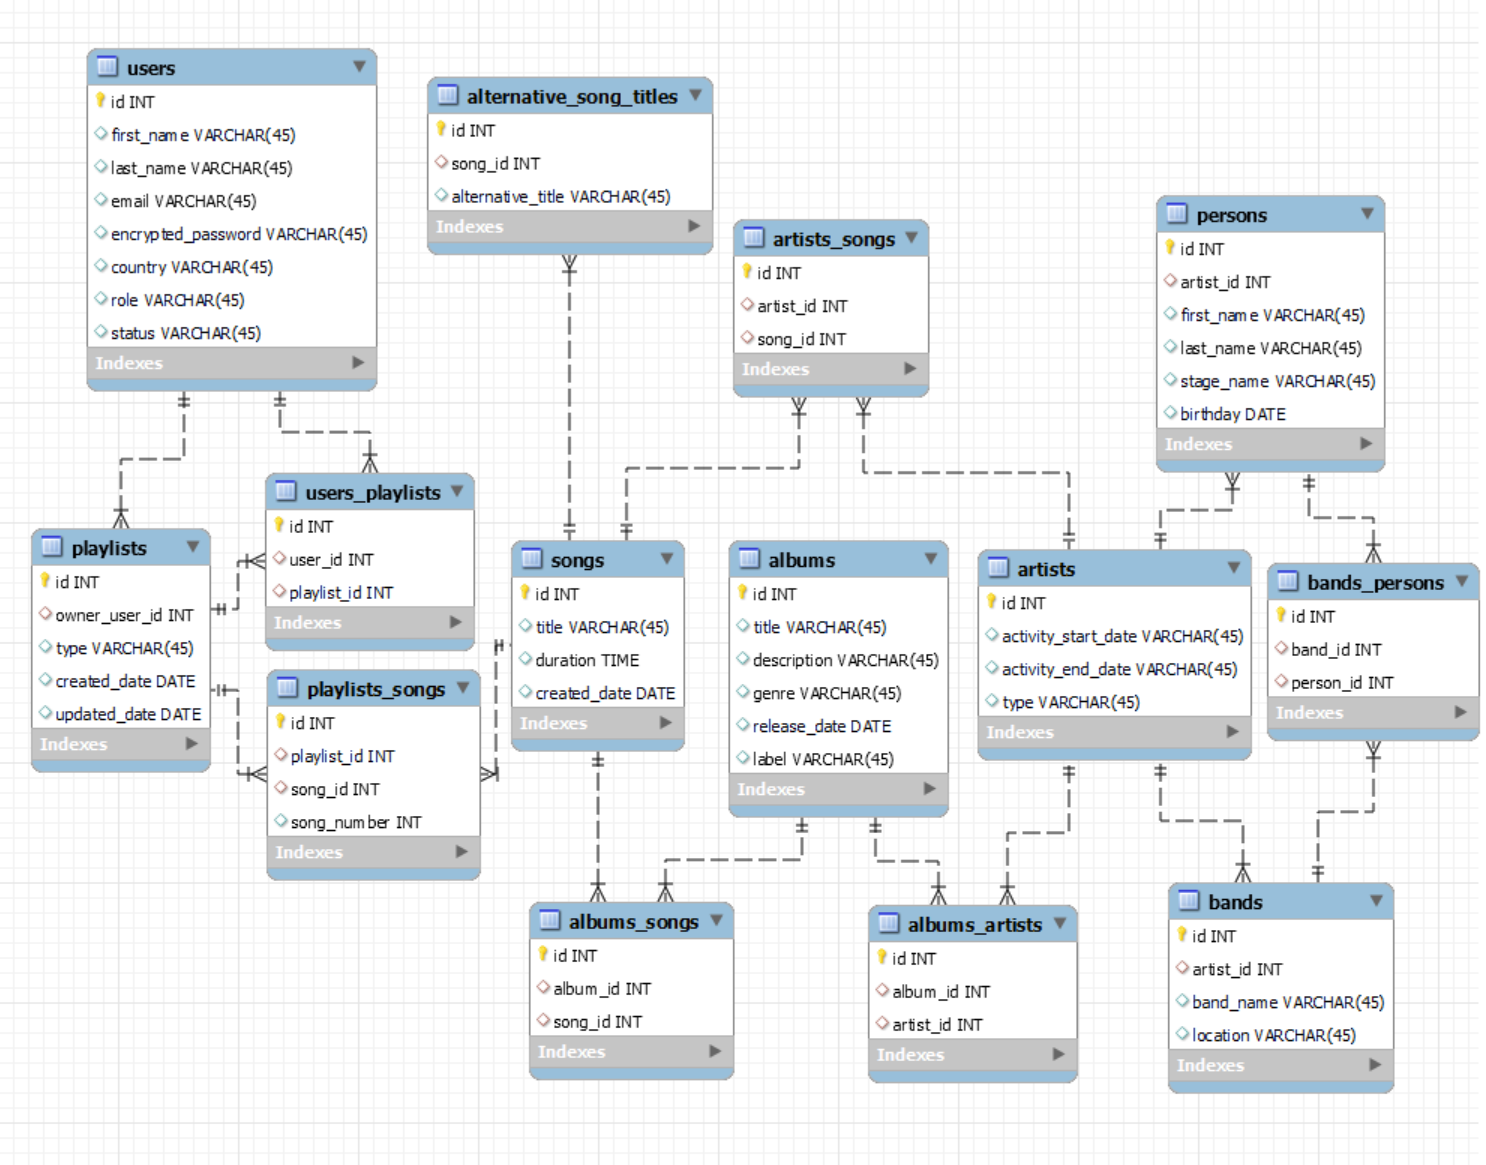
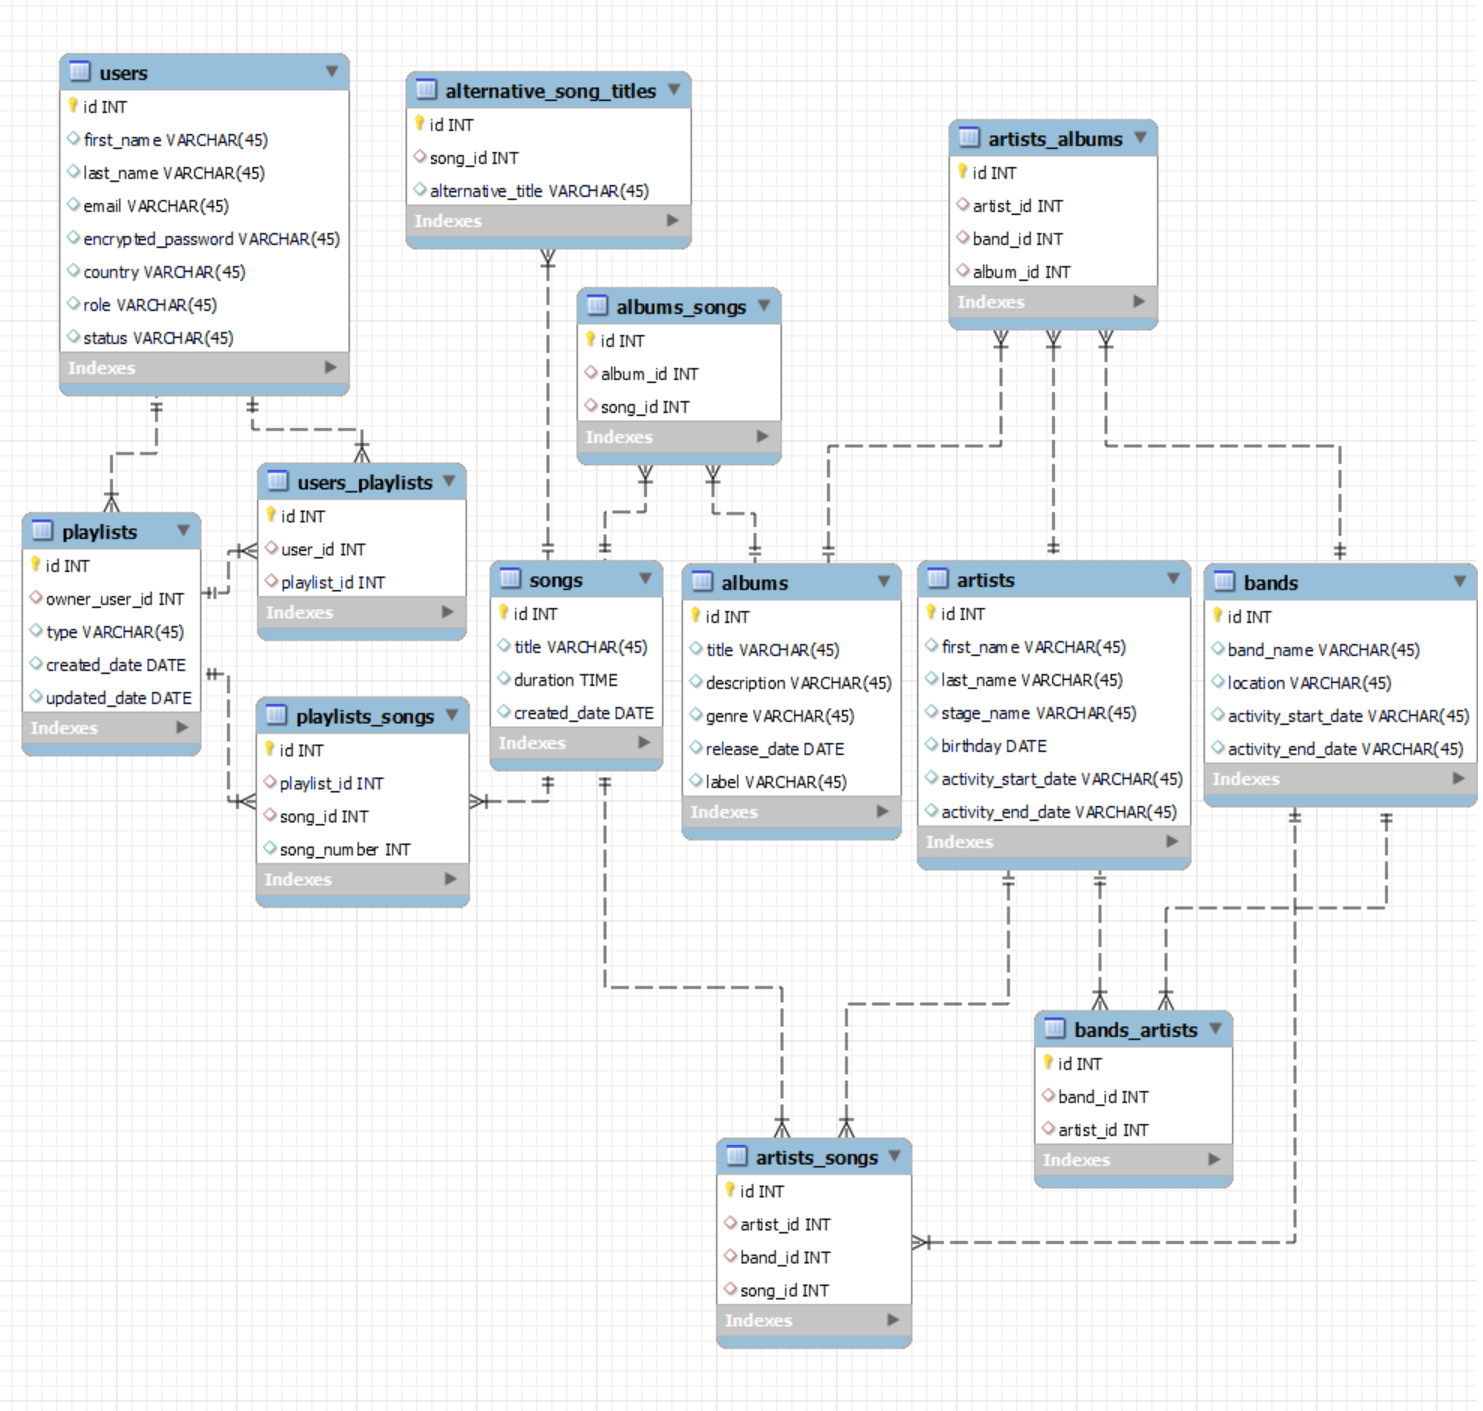
db model refactor, new hibernate mappings

diff --git a/musify/src/main/java/com/arobs/internship/musify/model/Artist.java b/musify/src/main/java/com/arobs/internship/musify/model/Artist.java
@@ -2,55 +2,87 @@ package com.arobs.internship.musify.model;
 
 
 import javax.persistence.*;
+import java.sql.Date;
+import java.util.Set;
 
 @Entity
 @Table(name = "artists")
 public class Artist {
     @Id
-    @Column(name = "id")
     @GeneratedValue(strategy = GenerationType.IDENTITY)
-    private int artistId;
+    private Integer id;
+    @Column(name = "first_name")
+    private String firstName;
+    @Column(name = "last_name")
+    private String lastName;
+    @Column(name = "stage_name")
+    private String stageName;
+    private Date birthday;
     @Column(name = "activity_start_date")
-    private String startDate;
+    private String activityStartDate;
     @Column(name = "activity_end_date")
-    private String endDate;
-    private String type;
+    private String activityEndDate;
 
-    @OneToOne(mappedBy = "artist")
-    private Band band;
+    @ManyToMany(mappedBy = "artists")
+    private Set<Band> bands;
 
-    @OneToOne(mappedBy = "artist")
-    private Person person;
-
-    public int getId() {
-        return artistId;
+    public Integer getId() {
+        return id;
     }
 
-    public void setId(int artistId) {
-        this.artistId = artistId;
+    public void setId(Integer id) {
+        this.id = id;
     }
 
-    public String getStartDate() {
-        return startDate;
+    public String getFirstName() {
+        return firstName;
     }
 
-    public void setStartDate(String startDate) {
-        this.startDate = startDate;
+    public void setFirstName(String firstName) {
+        this.firstName = firstName;
     }
 
-    public String getEndDate() {
-        return endDate;
+    public String getLastName() {
+        return lastName;
     }
 
-    public void setEndDate(String endDate) {
-        this.endDate = endDate;
+    public void setLastName(String lastName) {
+        this.lastName = lastName;
     }
 
-    public String getType() {
-        return type;
+    public String getStageName() {
+        return stageName;
     }
 
-    public void setType(String type) {
-        this.type = type;
+    public void setStageName(String stageName) {
+        this.stageName = stageName;
+    }
+
+    public Date getBirthday() {
+        return birthday;
+    }
+
+    public void setBirthday(Date birthday) {
+        this.birthday = birthday;
+    }
+
+    public String getActivityStartDate() {
+        return activityStartDate;
+    }
+
+    public void setActivityStartDate(String activityStartDate) {
+        this.activityStartDate = activityStartDate;
+    }
+
+    public String getActivityEndDate() {
+        return activityEndDate;
+    }
+
+    public void setActivityEndDate(String activityEndDate) {
+        this.activityEndDate = activityEndDate;
+    }
+
+    public Set<Band> getBands() {
+        return bands;
     }
 }

diff --git a/musify/src/main/java/com/arobs/internship/musify/model/Band.java b/musify/src/main/java/com/arobs/internship/musify/model/Band.java
@@ -6,43 +6,30 @@ import java.util.Set;
 
 @Entity
 @Table(name = "bands")
-public class Band extends Artist{
+public class Band{
     @Id
-    @Column(name = "id")
     @GeneratedValue(strategy = GenerationType.IDENTITY)
-    private int idBand;
+    private Integer id;
     @Column(name = "band_name")
     private String bandName;
     private String location;
-
-    @OneToOne
-    @JoinColumn(name = "artist_id")
-    private Artist artist;
+    @Column(name = "activity_start_date")
+    private String activityStartDate;
+    @Column(name = "activity_end_date")
+    private String activityEndDate;
 
     @ManyToMany
-    @JoinTable(name = "bands_persons",
+    @JoinTable(name = "bands_artists",
             joinColumns = { @JoinColumn(name = "band_id") },
-            inverseJoinColumns = { @JoinColumn(name = "person_id") })
-    private final Set<Person> persons = new HashSet<>();
+            inverseJoinColumns = { @JoinColumn(name = "artist_id") })
+    private final Set<Artist> artists = new HashSet<>();
 
-    public Band() {
+    public Integer getId() {
+        return id;
     }
 
-    public Band(String bandName, String location, String startDate, String endDate) {
-        this.bandName = bandName;
-        this.location = location;
-        super.setStartDate(startDate);
-        super.setEndDate(endDate);
-    }
-
-    public void addPerson(Person person) {
-        this.persons.add(person);
-        person.getBands().add(this);
-    }
-
-    public void removePerson(Person person) {
-        this.persons.remove(person);
-        person.getBands().remove(this);
+    public void setId(Integer id) {
+        this.id = id;
     }
 
     public String getBandName() {
@@ -59,5 +46,31 @@ public class Band extends Artist{
 
     public void setLocation(String location) {
         this.location = location;
+    }
+
+    public String getActivityStartDate() {
+        return activityStartDate;
+    }
+
+    public void setActivityStartDate(String activityStartDate) {
+        this.activityStartDate = activityStartDate;
+    }
+
+    public String getActivityEndDate() {
+        return activityEndDate;
+    }
+
+    public void setActivityEndDate(String activityEndDate) {
+        this.activityEndDate = activityEndDate;
+    }
+
+    public void addArtist(Artist artist) {
+        this.artists.add(artist);
+        artist.getBands().add(this);
+    }
+
+    public void removeArtist(Artist artist) {
+        this.artists.remove(artist);
+        artist.getBands().remove(this);
     }
 }
